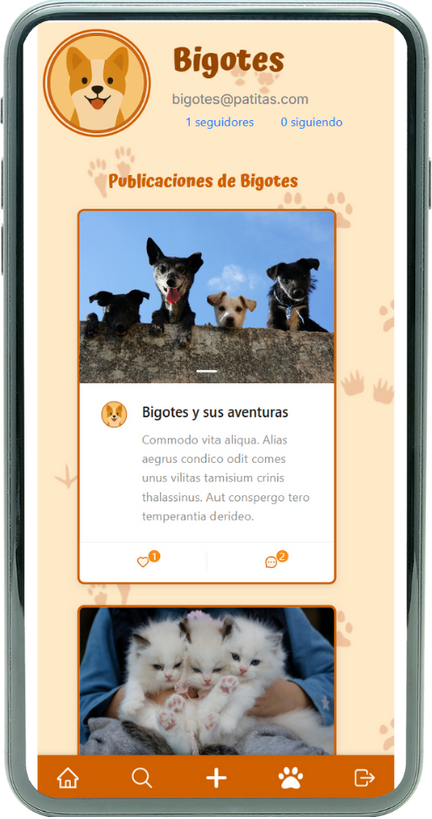
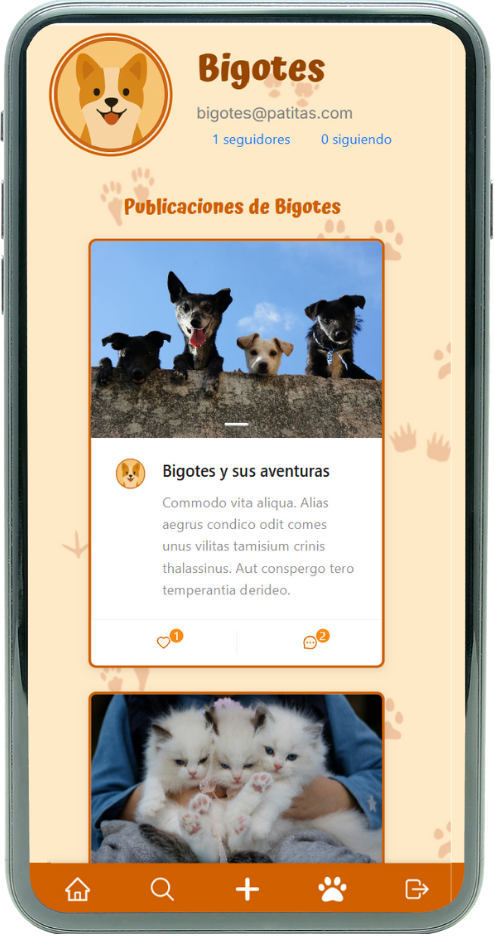
pictures of projects centered inside Project Cards

diff --git a/src/data/data.js b/src/data/data.js
@@ -5,7 +5,8 @@ const projects = [
         "description": "Web application in React focusing on text conversion into a spoken narration accompanied by an automatic slideshow of related images retrieved from Unsplash. It allows the user to write text, choose a visual theme, and play both synchronously.",
         "cover": "/images/narraTexto-cover.png",
         "images": "/images/narraTexto-img-1.png",
-        "youtubeUrl": "https://youtu.be/9vzpnKb9Y_8" 
+        "youtubeUrl": "https://youtu.be/9vzpnKb9Y_8",
+        "size":"sm"
     },
 
     {
@@ -14,7 +15,8 @@ const projects = [
         "description": "React application focusing on the generation of a visual presentation from a chosen title whose objective is to track audience interactions.The images are fetched from Unsplash and displayed in an automatic slideshow. There is no backend: the data is embedded in the URL itself, and the metrics (number of views, pauses, and stops) are stored in the browser.",
          "cover": "/images/metricasAudiencia-cover.png",
         "images": "/images/metricasAudiencia-img-1.png",
-        "youtubeUrl": "https://youtu.be/MCTZkbKMdsI" 
+        "youtubeUrl": "https://youtu.be/MCTZkbKMdsI",
+        "size": "md"
 
     },
 
@@ -24,7 +26,8 @@ const projects = [
         "description": "Social network specially designed for pets. Each pet can have its own profile, share its thoughts in the form of posts, comments or likes on what their furry friends are doing, and build their own online community.",
          "cover": "/images/patitas-img-cover.png",
         "images": "/images/patitas-img-1.png",
-        "youtubeUrl": "https://youtu.be/IVI2gf4T08s" 
+        "youtubeUrl": "https://youtu.be/IVI2gf4T08s",
+        "size":"sm"
 
     },
 
@@ -34,8 +37,8 @@ const projects = [
         "description": "E-commerce platform focused on selling manga comics across different categories. The project includes a frontend application developed in React and a complete backend built with Node.js, Express, and MongoDB. The application features user registration and authentication, product management, categories and filters, shopping cart, and order handling.",
          "cover": "/images/akibaMart-img-1.png",
         "images": "/images/akibaMart-img-1.png",
-        "youtubeUrl": "https://youtu.be/vPM1paKWh2I"
-
+        "youtubeUrl": "https://youtu.be/vPM1paKWh2I",
+        "size":"md"
     },
 ];
 

diff --git a/src/components/Projects/Project/ProjectCard.jsx b/src/components/Projects/Project/ProjectCard.jsx
@@ -1,14 +1,21 @@
 import {Link} from "react-router-dom";
 import "../Project/ProjectCard.css";
 
+const SIZE_TO_CLASS = {
+        sm: "card--sm",
+        md: "card--md",
+        lg: "card--lg"
+}
+
 
 function ProjectCard ({project}) {
-    return (
+    const sizeClass = SIZE_TO_CLASS[project.size] || "card--lg";
+       return (
         <Link //enlace SPA sin recarga a la ruta del detalle
             to={`/project/${project.id}`} //Construye la url con el id del proyecto   
             className="card-link" //clase para estilos del enlace que envuelve la tarjeta
             >
-                <div className="card">
+                <div className={`card ${sizeClass}`}>
                     <img src={project.cover} alt={project.title} className="card-image"/>
                        </div>
                          <>

diff --git a/src/components/Projects/Project/ProjectCard.css b/src/components/Projects/Project/ProjectCard.css
@@ -23,13 +23,13 @@
 
 .card-image {
     position: absolute;
-    inset: 1;
+    inset: 0;
     /* Top, right, bottom, left = 0 → ocupa todo el contenedor */
     width: 100%;
     height: 100%;
     object-fit: cover;
     display: block;
-
+   
 }
 
 .card-title {
@@ -42,16 +42,15 @@
     padding: 12px 12px;
     font-family: var(--titles);
     font-size: 22px;
-    font-weight: 600px;
+    font-weight: 600;
 }
 
-/* .card-title h3, h3.card-title {
-    margin: 0;
-    font-size: 20px;
-    font-weight: 600px;
-    text-align: center;
-    font-family: var(--titles);
-    padding: 10px;
-    margin-bottom: 20px;
+.card--md .card-image,
+.card--sm .card-image {
+  object-fit: contain;   /*imagen completa dentro del card*/
+}
 
-} */
+.card--lg, .card--md, .card--sm {
+    --img-inset: 0%;
+}
+

diff --git a/src/pages/Projects.css b/src/pages/Projects.css
@@ -4,9 +4,9 @@
 
 
 .projects-container {
-max-width: 1200px;
+max-width: 768px;
 margin:0 auto;
-padding: 24px;
+padding: 30px;
 }
 
 .projects-header {
@@ -15,7 +15,7 @@ padding: 24px;
 
 .projects-title {
     font-size: 32px;
-    line-height: 1.8;
+    line-height: 1.3;
     margin: 0;
     font-family: var(--titles);
     text-align: center;
@@ -26,7 +26,7 @@ padding: 24px;
 .projects-grid {
     display: grid;
     grid-template-columns: repeat(2, 1fr);
-    gap:50px;
+    gap:60px;
     align-items: start;
 }
 
@@ -34,7 +34,7 @@ padding: 24px;
 @media (max-width: 1024px) {
     .projects-grid {
         grid-template-columns: repeat(2, 1fr);
-        gap: 18px;
+        gap: 30px;
     }
 }
 
